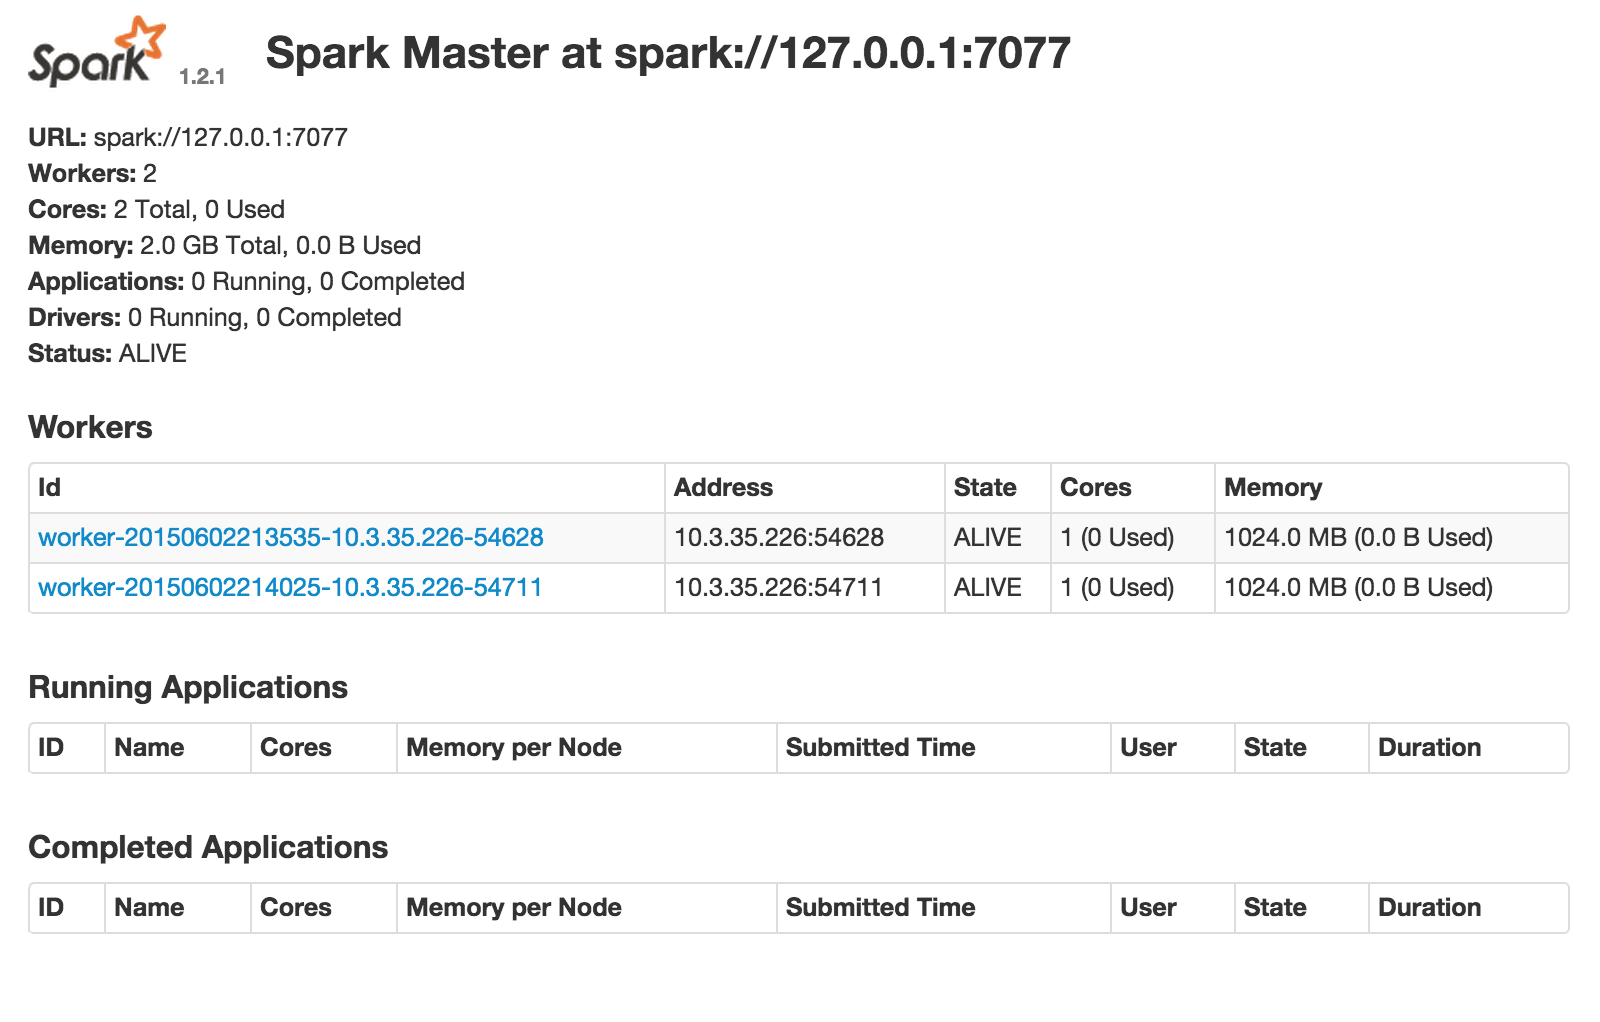
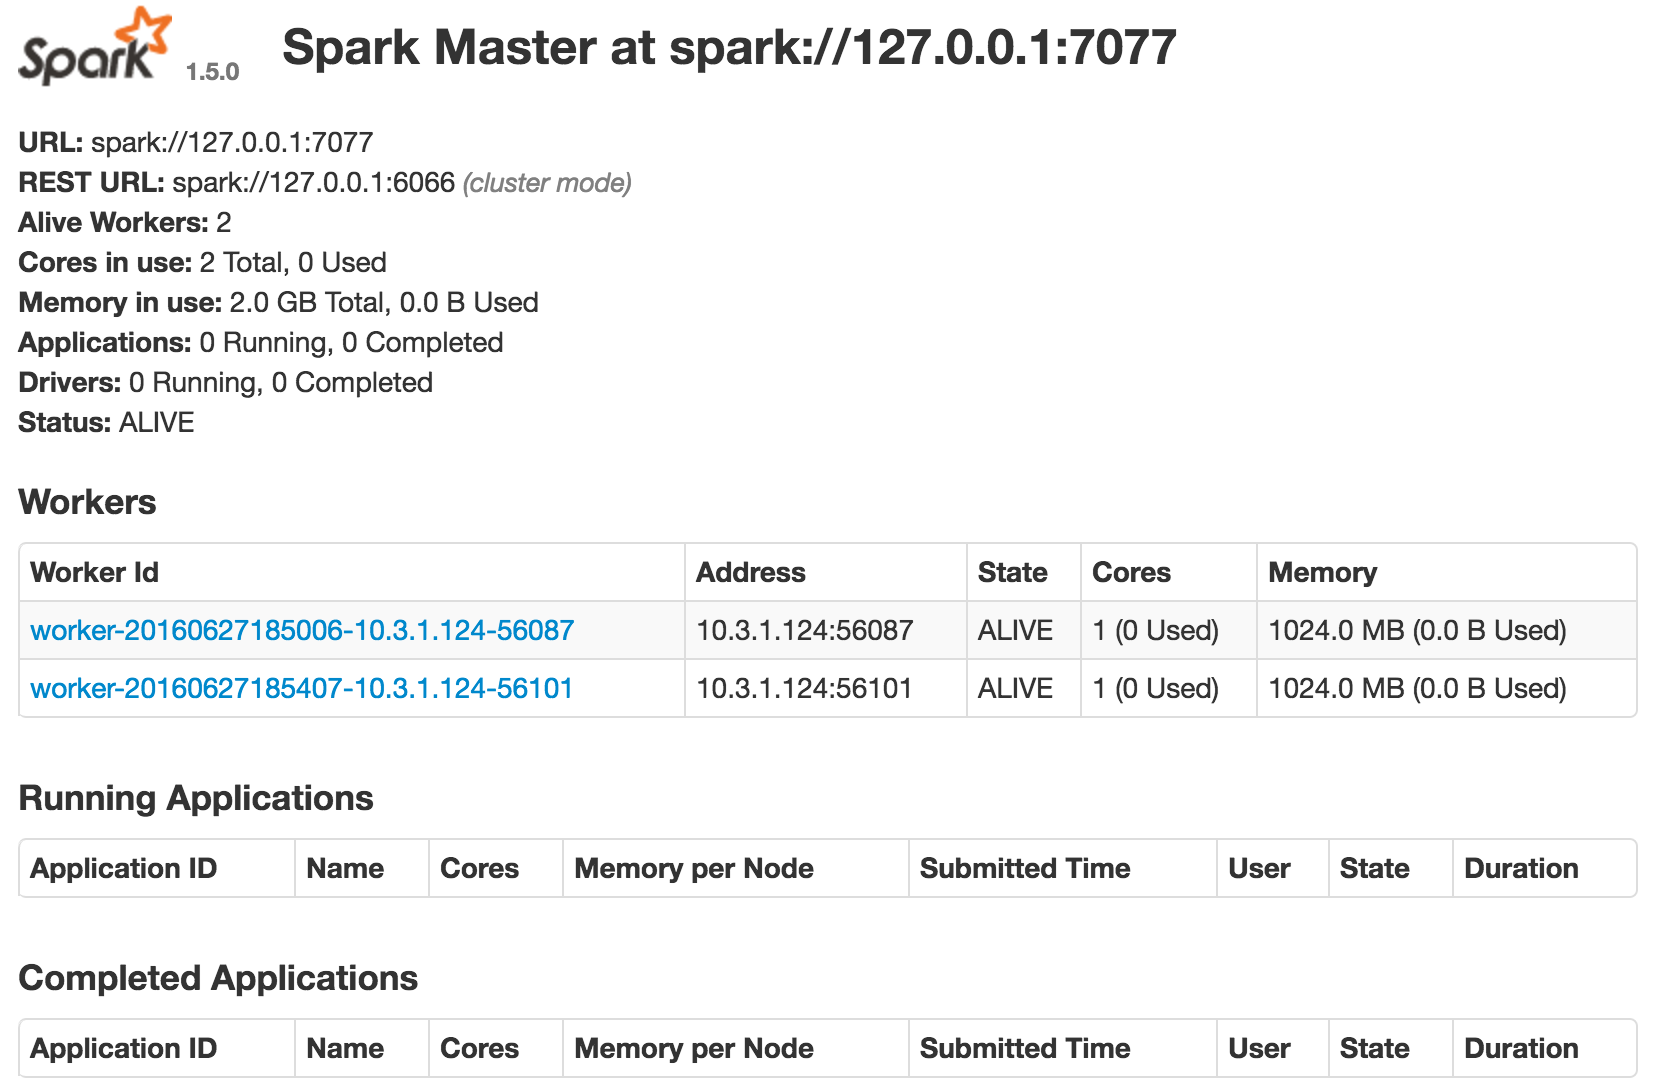
Rework part 3 of individual sprint. Update images

diff --git a/individual.md b/individual.md
@@ -125,7 +125,7 @@ small. Make sure that:
 
    **Hint**: 
     * Use `reduceByKey()` instead of `groupByKey()`. See why [here][groupby-v-reduceby-key].
-    * You may get a warning sayin gthat you should install `psutil`. You can with 
+    * You may get a warning saying that you should install `psutil`. You can with 
     `pip install psutil`.
 
 
@@ -139,33 +139,36 @@ each cookie only costs $1).
 ## Part 3: Starting a Local Cluster
 
 Here we will simulate starting a master/worker cluster locally. This is different
-from parts 1 and 2 in that there will now be workers with which the master will
-communicate. Simulating a master/worker cluster is useful in that it allows us
-to develop code on a local cluster before deployment. This way, we can work out
-any of the kinks/problems that might be in our programs before using valuable
-cluster resources.
+from parts 1 and 2 in that there will now be "workers", on separate cores of your
+computer, that the "master", also living on it's own core, will communicate with. 
 
-We will be using [`tmux`](http://tmux.github.io/) to run our scripts in
-the background. `tmux` lets us *multiplex* our terminal, create terminal sessions,
-and attach/detach different programs in the terminal (somewhat like running
-processes in hidden terminals). This will be useful for us because we will be
-able to push our cluster into the background and focus on our python programs
-that are going to do work on the cluster.
+Simulating a master/worker cluster is useful since it allows us to develop code 
+and test how it performs on a small cluster before deployment to multiple machines.
+This way, we can work out any of the kinks/problems that might be in our programs,
+that manifest on actual clusters, before using valuable computation resources.
+
+We will be using [tmux](http://tmux.github.io/) to run our scripts in
+the background. tmux lets us *multiplex* our terminal, create terminal sessions,
+and attach/detach from those sessions in the terminal (somewhat like running
+processes in hidden terminals). This will be useful because it allows us to put our 
+cluster processes on terminal sessions that are running in the background.
 
 Here is a **quick** guide to tmux for you to skim through:
 
 ```bash
-brew install tmux             # Install tmux.
-tmux new -s [session_name]    # Start a new tmux session.
-ctrl + b, d                   # Detach from that tmux session.
-tmux ls                       # Get a list of your currently running tmux sessions.
-tmux attach -t [session_name] # Attach to an existing session.
+brew install tmux             # Install tmux with homebrew
+tmux new -s [session_name]    # Start a new tmux session
+ctrl + b, d                   # Detach from that tmux session
+tmux ls                       # Get a list of your currently running tmux sessions
+tmux attach -t [session_name] # Attach to an existing session
 ```
+Check out [this](https://gist.github.com/MohamedAlaa/2961058) tmux cheatsheet for
+a reference on a bunch of things tmux can do.
 
 <br>
 
-Now let's use `tmux` to create a local cluster (master and workers) which will
-be running in terminals in the background.
+Now let's use tmux to create a local cluster, master and workers, which run in 
+background terminal sessions.
 
 1. Start a tmux session which will host your master node:
 
@@ -176,9 +179,9 @@ be running in terminals in the background.
 The Master class in `org.apache.spark.deploy.master` accepts the following
 parameters:
 
-   - `h` : host (which on our case is local host `127.0.0.1`)
-   - `p`: The port on which the master is listening in (`7077`)
-   - `webui-port`: The port on which the webui is reachable (`8080`)
+   * `h`: host (local host, `127.0.0.1`, in our case)
+   * `p`: The port on which the master is listening in (`7077`)
+   * `webui-port`: The port on which the web user interface is reachable (`8080`)
 
    <br>
 
@@ -188,19 +191,32 @@ parameters:
    -p 7077 \
    --webui-port 8080
    ```
-3. You should get some output in your terminal similar to the following:
-    <br>
-    <div style="text-align: center"><img src="images/master_term.png" alt="master_term" style="width: 700px"></div>
-    <br>
 
-4. Detach from your master session(`crtl+b, d`). Start a new tmux session which
+   The `${SPARK_HOME}` refers to the environment variable that you set up in your
+   bash profile when you followed the Spark installation instructions.
+
+3. You should get some output in your terminal similar to the following:
+   <br>
+   <div style="text-align: center"><img src="images/master_term.png" alt="master_term" style="width: 700px"></div>
+   <br>
+
+4. Detach from your master session(`crtl+b d`). Start a new tmux session which
    will host your first worker node:
 
    ```bash
    tmux new -s worker1
    ```
 
-5. Start a worker by running the following:
+5. Run the command below to set up a Spark worker connected to the master.
+The Worker class in `org.apache.spark.deploy.worker` accepts the following
+parameters:
+
+   * `c`: the number of cores Spark applications are allowed to use on the worker machine.
+   * `m`: amount of memory Spark applications are allowed to use on the worker machine.
+   * the URL the master is listening on, IP and port. We specified this when we created the
+   master above.
+
+   <br>
 
    ```bash
    ${SPARK_HOME}/bin/spark-class org.apache.spark.deploy.worker.Worker \
@@ -209,32 +225,29 @@ parameters:
    spark://127.0.0.1:7077
    ```
 
-   This will start a worker with 1GB memory and 1 core and attach it to the
-   previously created Spark master. The output in your terminal should be:
+   This will start a worker with access to 1 core and 1 GB of memory and attach it to the
+   previously created Spark master. The output in your terminal should look like:
 
-    <div style="text-align: center"><img src="images/worker_term.png" alt="worker_term" style="width: 700px"></div>
-    <br>
+   <div style="text-align: center"><img src="images/worker_term.png" alt="worker_term" style="width: 700px"></div>
+   <br>
 
-   Detach the current session and create a new session and run the same command
-   to create a second worker.
+6. Detach from the current session, create a new session (name it worker2 this time), 
+and run the same command as in `5` to create a second worker. You should detach from this
+tmux session as well.
 
-6. You have now set up a master with 2 workers locally. Spark also provides us
-   with a web UI that lets us track the Spark jobs and see other stats about
-   any Spark related tasks and workers.
+7. You have now set up a local Spark cluster with a master and 2 workers. Spark 
+also provides a web UI that lets us track our Spark jobs and see other stats 
+about any Spark related tasks and workers. It is available at the port we specified
+when we created the master.
 
    <h3 style="color:red">Your web UI is at: <code>localhost:8080</code></h3>
 
-    <div style="text-align: center"><img src="images/sparkui_first.png" alt="sparkui_first" style="width: 700px"></div>
-    <br>
+   <div style="text-align: center"><img src="images/sparkui_first.png" alt="sparkui_first" style="width: 700px"></div>
+   <br>
 
-7. We are not running any applications with our local Spark cluster yet.
-   We can attach an IPython notebook to the master and start `pyspark` by
-   running the following command. This will start the notebook in the browser
-   and assign 1G of RAM per executor (worker node) and 1G of RAM to the master
-   in our pyspark application. Then, we can interact with `pyspark` via a
-   SparkContext, just like we did in parts 1 and 2 (the difference here is that
-   we actually have worker nodes that our master will communicate with and
-   assign tasks to).
+8. We are not yet running any applications on our local Spark cluster. To interact
+with our cluster we can attach an IPython notebook to the master and start
+`pyspark` by running the command below. 
 
    ```bash
    IPYTHON_OPTS="notebook"  ${SPARK_HOME}/bin/pyspark \
@@ -243,20 +256,24 @@ parameters:
    --driver-memory 1G
    ```
 
-8. A SparkContext has already been loaded into IPython. Access it via the
-variable `sc`.
+This will start the notebook in the browser and assign 1G of RAM per executor,
+worker node, and 1 GB of memory to the master in our pyspark application. Then,
+we can interact with `pyspark` via a SparkContext, just like we did in parts 1
+and 2. The difference here is that we actually have worker nodes that our master 
+will communicate with and assign tasks to.
+
+9. A SparkContext available in the IPython notebook. Access it via the variable `sc`.
 
    You will see an output like below:
 
-   ```python
-   sc
-   pyspark.context.SparkContext at 0x104318250
-   ```
+   <div style="text-align: center"><img src="images/spark_context.png" alt="spark_context" style="width: 700px"></div>
+   <br>
 
-9. Now if you refresh your spark web UI, you should see **`PySparkShell`** running in the list of applications.
+10. Now if you refresh your Spark web UI, you should see **`PySparkShell`** running 
+in the list of applications.
 
-    <div style="text-align: center"><img src="images/running_application.png" alt="running_application" style="width: 700px"></div>
-    <br>
+   <div style="text-align: center"><img src="images/running_application.png" alt="running_application" style="width: 700px"></div>
+   <br>
 
 ##Part 4: Spark for Data Processing
 
